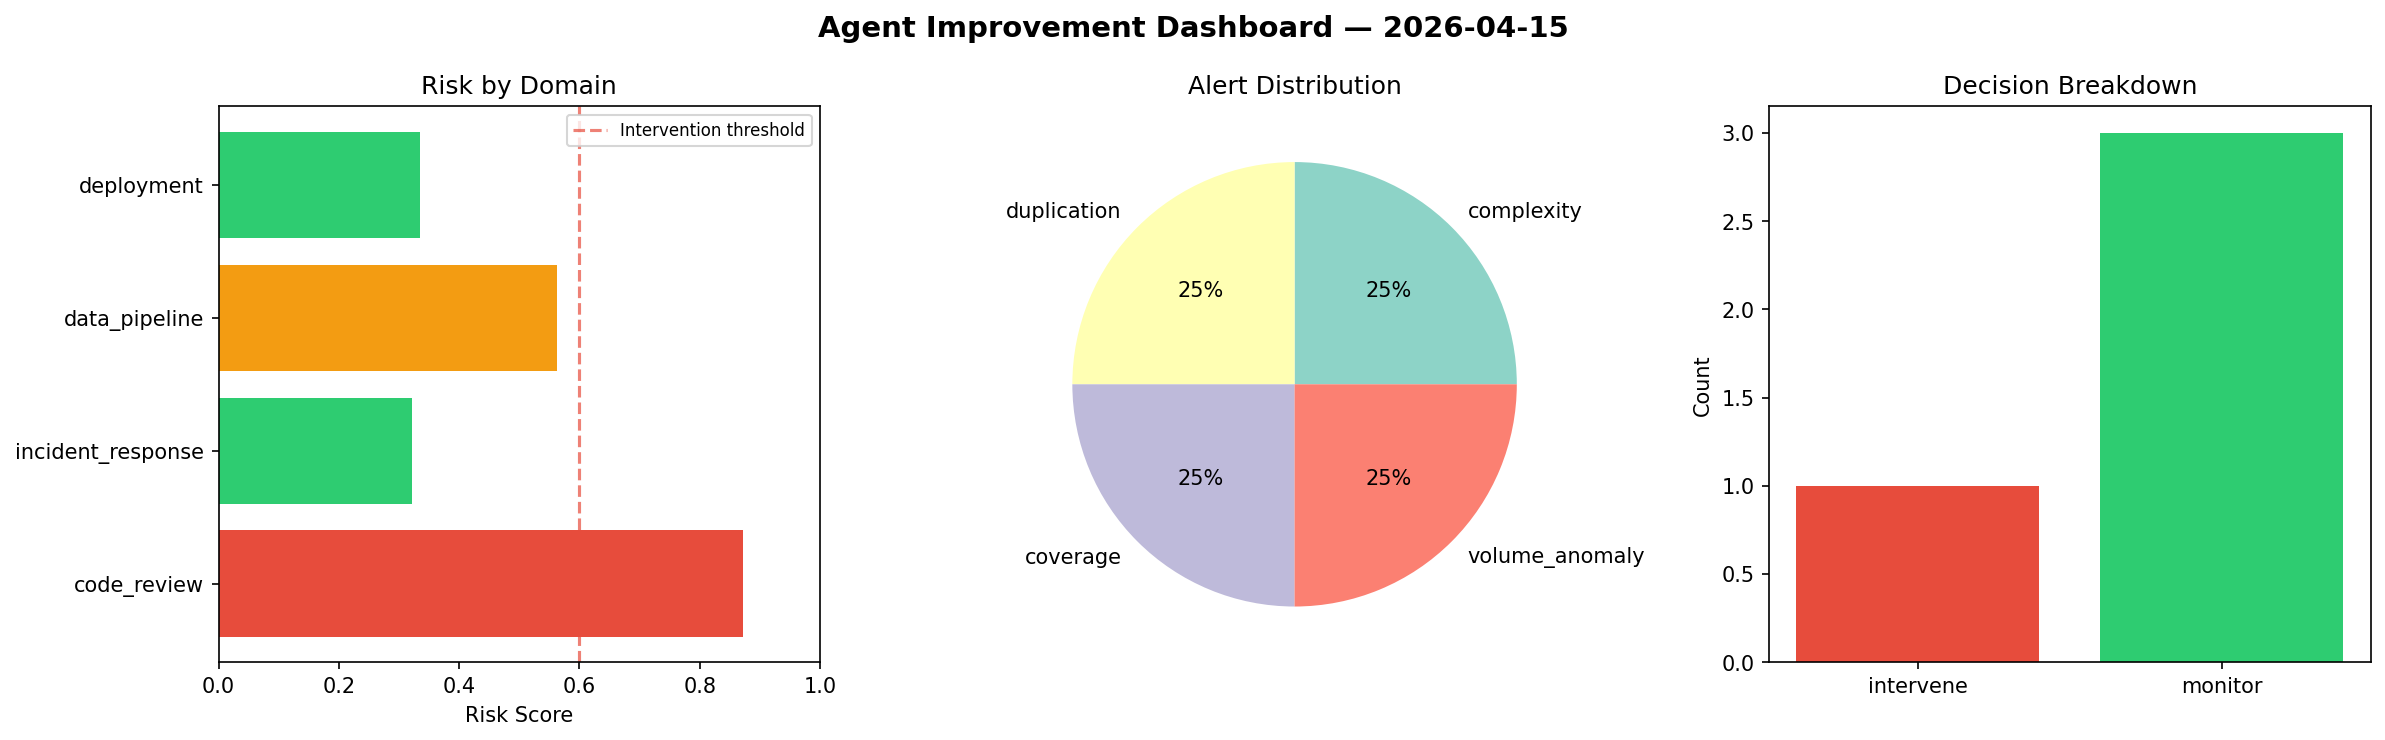
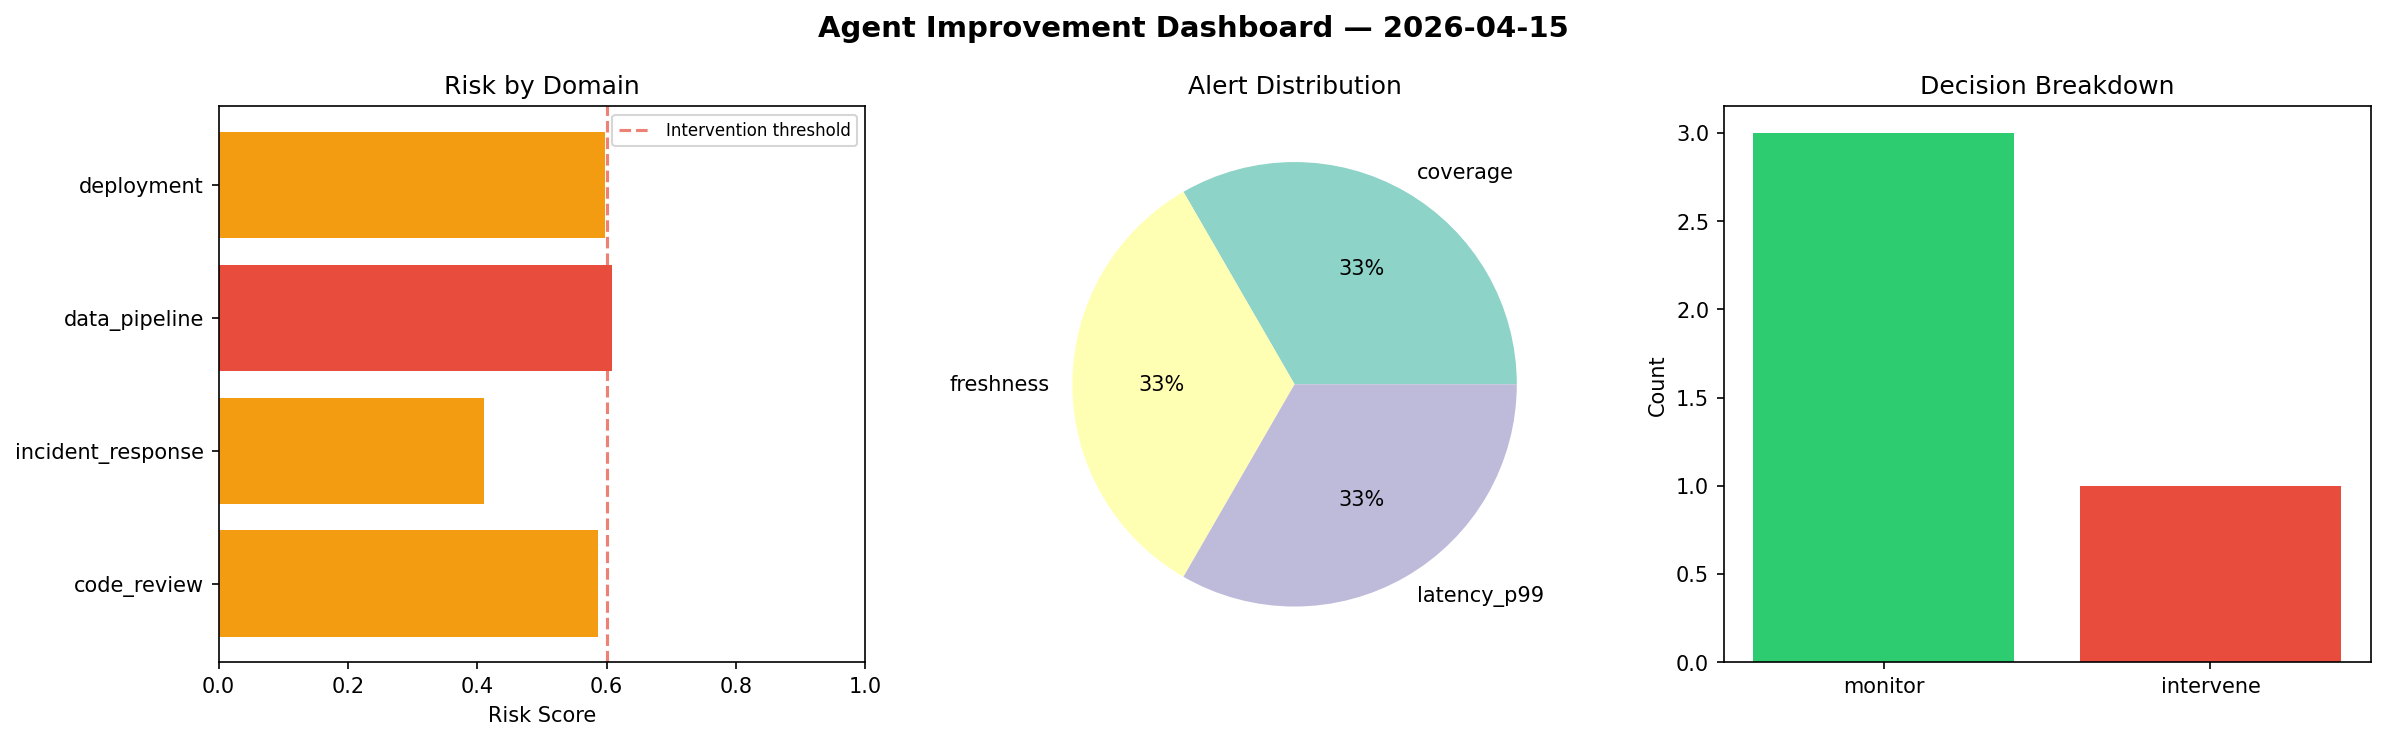
agent-improvement: daily cycle 2026-04-15T21:05

diff --git a/logs/2026-04-15.md b/logs/2026-04-15.md
@@ -1,6 +1,6 @@
 # Agent Improvement Report — 2026-04-15
 
-**Cycle ID:** `434f4eef` | **Avg Risk:** 0.523 | **Interventions:** 1/4
+**Cycle ID:** `c968818f` | **Avg Risk:** 0.5504 | **Interventions:** 1/4
 
 ![Dashboard](2026-04-15_dashboard.png)
 
@@ -10,18 +10,18 @@
 
 | Domain | Risk Score | Decision | Alerts |
 |--------|-----------|----------|--------|
-| code_review | 0.8717 | intervene | complexity, duplication, coverage |
-| incident_response | 0.3224 | monitor | none |
-| data_pipeline | 0.5632 | monitor | volume_anomaly |
-| deployment | 0.3348 | monitor | none |
+| code_review | 0.586 | monitor | coverage |
+| incident_response | 0.4105 | monitor | none |
+| data_pipeline | 0.608 | intervene | freshness |
+| deployment | 0.5972 | monitor | latency_p99 |
 
 ## Delta vs Yesterday
 
 | Domain | Today | Yesterday | Change |
 |--------|-------|-----------|--------|
-| code_review | 0.8717 | 0.7387 | 📈 18.0% |
-| incident_response | 0.3224 | 0.4387 | 📉 -26.5% |
-| data_pipeline | 0.5632 | 0.353 | 📈 59.5% |
-| deployment | 0.3348 | 0.4191 | 📉 -20.1% |
+| code_review | 0.586 | 0.7387 | 📉 -20.7% |
+| incident_response | 0.4105 | 0.4387 | 📉 -6.4% |
+| data_pipeline | 0.608 | 0.353 | 📈 72.2% |
+| deployment | 0.5972 | 0.4191 | 📈 42.5% |
 
-**Refinement:** `{'adjustment': 'maintain', 'trend': 'improving', 'window': 4}`
+**Refinement:** `{'adjustment': 'tighten_thresholds', 'trend': 'degrading', 'window': 4}`
